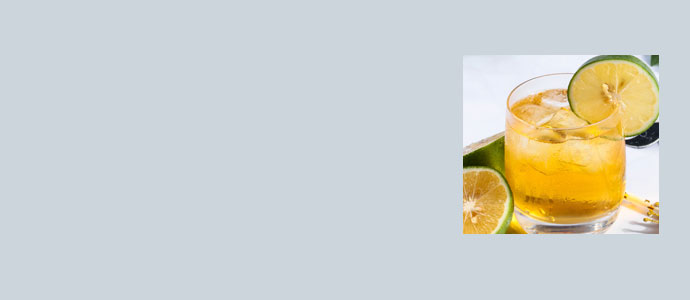
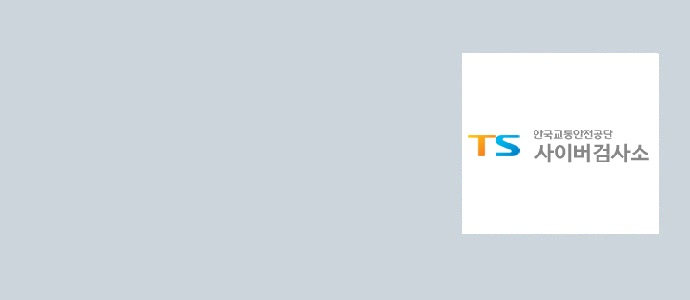
portfolio

Changed region(s): [[0.6696, 0.15, 0.9739, 0.78]]

diff --git a/index.html b/index.html
@@ -2,164 +2,125 @@
 <html lang="ko">
 <head>
     <meta charset="UTF-8">
-    <title>한국소비자원시대-강의진행용</title>
-    <link rel="stylesheet" href="css/style.css">
-    
+    <title>SeongDo's Portfolio</title>
+    <link rel="stylesheet" href="csss2/style.css">
 </head>
+
 <body>
-  <div class="wrap">
-      <header>
-          <div class="innerHeader" id="main">
-              <nav class="util">
-                  <ul>
-                      <li><a href="#"><img src="img/util_01.gif" alt="home"></a></li>
-                      <li><a href="#"><img src="img/util_04.gif" alt="home"></a></li>
-                      <li><a href="#"><img src="img/util_03.gif" alt="home"></a></li>
-                      <li><a href="#"><img src="img/util_02.gif" alt="home"></a></li>
-                  </ul>
-              </nav>
-              <h1 class="logo"><a href="index.html"><img src="img/logo.png" alt="로고"></a></h1>  
-          </div>
-          <div class="related">
-              <a href="#"><p>지난호 보기</p></a>
-              <a href="#"><p>구독 신청</p></a>
-          </div>
-      </header> 
-   <!-- section.main  -->
-    <section class="main">
-        <div class="inner">
-            <div class="mainTitle">
-                <h2>아이들과 외국에서 한달 살기 <br>용기를 내요.</h2>
-                <p>아이들과 외국에서 한달 사기는 꿈같은 일이면서도 두려운 일입니다. <br>
-                  아이들 학교나 학원, 혹은 경비때문에 여행을 망설이는 분들이 많으실텐데요. <br>그분들에게 말씀드리고 싶어요. 주저하지 말고 용기를 내라고...</p>
-                <a href="#" class="btn">자세히 보기</a>
+    <div class="wrap">
+        <header>
+            <div class="innerHeader" id="main">
+                <nav class="util">
+                    <ul>
+                        <li><a href="index.html"><img src="img/home2.jpg" alt="home"></a></li>
+                        <li><a href="https://blog.naver.com/star1582" target="_blank"><img src="img/b2.jpg" alt="home"></a></li>
+                        <li><a href="https://github.com/ZayneLee" target="_blank"><img src="img/github2.png" alt="home"></a></li>
+                    </ul>
+                </nav>
+                <h1 class="logo">
+                    <p>SeongDo's Portfolio</p>
+                </h1>
             </div>
-        </div>
-        <div class="may">
-            <a href="#">
-                <strong>May</strong>
-                <p>이달의  <br> 추천 정보</p>
-            </a>
-            <ul>
-                <li><a href="#">KOREA</a></li>
-                <li><a href="#">CONSUMER AGENCY</a></li>
-                <li><a href="#">WEBZINE</a></li>
-            </ul>
-            <h3>2020.03</h3>
-        </div>    
-    </section>
-    <!-- section.happy  --> 
-   <section class="happy">
-       <h2>함께 <span class="colortext">행복한</span> 소비생활</h2>
-       <ul>
-           <li>
-               <a href="#">
-                   <p>같이, 가치있게</p>
-                   <h3>봄날의 신부 소박함에 빠지다.</h3>
-                   <p class="img"><img src="img/main_5month_05.jpg" alt="img5"></p>
-               </a>
-           </li>
-           <li>
-               <a href="#">
-                   <p>나만의 소비철학</p>
-                   <h3>생활자인 듯, 여행자인 듯</h3>
-                   <p class="img"><img src="img/main_5month_07.jpg" alt="img5"></p>
-               </a>
-           </li>
-           <li>
-               <a href="#">
-                   <p>재미있는 소비심리의 비밀</p>
-                   <h3>우리에게 가장 매력적인 말, 꽁짜</h3>
-                   <p class="img"><img src="img/main_5month_09.jpg" alt="img5"></p>
-               </a>
-           </li>
-       </ul>
-   </section> 
-  <!-- section.smart   -->
-       <section class="smart">
-           <div class="inner">
-               <h2>함께 <span class="colortext2">똑똑한</span> 소비생활</h2>
-               <ul>
-                   <li>
-                       <a href="#"><p class="img"><img src="img/main_5month_15.jpg" alt="설탕캔디"></p>
-                       <h3>어린이 비타민캔디,  <br> 설마 설탕캔디?</h3>
-                       </a>
-                   </li>
-                   <li>
-                       <a href="#"><p class="img"><img src="img/main_5month_18.jpg" alt="주식전체 케체크리스트"></p>
-                       <h3>퇴직을 앞둔 5060아빠,  <br> 주식투자 전 체크리스트</h3>
-                       </a>
-                   </li>
-               </ul>
-               <div class="row">
-                   <div class="guide">
-                      <p>거래 가이드</p>
-                       <a href="#">
-                           <p class="img"><img src="img/main_5month_19.jpg" alt="거래가이드"></p>
-                           <h3>온라인가구, <br>부디 신중하게</h3>
-                       </a>
-                   </div>
-                   <div class="guide">
-                      <p>안전 가이드</p>
-                       <a href="#">
-                           <p class="img"><img src="img/main_5month_20.jpg" alt="거래가이드"></p>
-                             <h3>노인요양시설, <br>전기화재 안전관리 취약</h3>
-                       </a>
-                   </div>
-               </div>
-           </div>
-       </section>
-      <!-- section.issue-->
-      <section class="news">
-          <div class="issue">
-              <h2>한국소비자원 이슈</h2>
-              <p><span class="num">1</span>'사회배려계층 권익 증진 행사'발대식 개최</p>
-              <p><span class="num">2</span>소비자교육 대학생 서포더트 발대식 개최</p>
-          </div>
-          <div class="issue">
-              <h2>소비자시대 퀴즈&리뷰 이벤트</h2>
-              <p>소비자시대 웹진에 대한 리뷰를 작성해주세요.</p>
-              <p>추첨을 통해 다양한 상품을 드립니다.</p>
+        </header>
+        <!-- section.main -->
+        <section class="main">
+            <div class="inner">
+                <div class="mainTitle">
+                    <p>안녕하세요?
+                        <br>개발자 이성도 입니다.
+                    </p>
+                </div>
+            </div>
+        </section>
+        <!-- section.aboutme -->
+        <section class="aboutme">
+            <p class="photo">
+                <img src="img/photo.jpg" alt="photo">
+            </p>
+            <h2>About Me</h2>
+            <div class="flexcontainer">
+                    <div class="flexitem">
+                            <h3>이름</h3>
+                            <p>이성도</p>
+                    </div>
+                    <div class="flexitem">
+                            <h3>생년월일</h3>
+                            <p>1990.04.25</p>
+                    </div>
+                    <div class="flexitem">
+                            <h3>주소</h3>
+                            <p>경북 구미시</p>
+                    </div>
+                    <div class="flexitem">
+                            <h3>연락처</h3>
+                            <p>010-7767-7475</p>
+                    </div>
+                    <div class="flexitem">
+                            <h3>이메일</h3>
+                            <p>star1582@naver.com</p>
+                    </div>
+                    <div class="flexitem">
+                            <h3>최종학력</h3>
+                            <p>한국방송통신대 컴퓨터과학과</p>
+                    </div>
+            </div>
+        </section>
+
+        <!-- section.skill -->
+        <section class="skill">
+            <div class="inner">
+                <h2>Skills</h2>
+                <div class="row">
+                    <div class="guide">
+                        <p>프론트 엔드</p>
+                        <a href="javascript:void(0);">
+                            <p class="img"><img src="img/htmlcssjs-overview.png" alt="프론트"></p>
+                            <h3>HTML5 + CSS3 + JS</h3>
+                        </a>
+                    </div>
+                    <div class="guide">
+                        <p>백엔드</p>
+                        <a href="javascript:void(0);">
+                            <p class="img"><img src="img/jsp.png" alt="백엔드"></p>
+                            <h3>JSP & Servlets</h3>
+                        </a>
+                    </div>
+                    <div class="guide">
+                        <p>협업</p>
+                        <a href="javascript:void(0);">
+                            <p class="img"><img src="img/git.png" alt="협업"></p>
+                            <h3>Git & GitHub</h3>
+                        </a>
+                    </div>
+                </div>
+            </div>
+        </section>
+        <!-- section.experience -->
+        <section class="news">
+             <h2>Experience</h2>
+          <div class="container">
+              <div class="issue">
+                  <h3>한국교통안전공단 사이버검사소</h3>
+                  <p>IT 사업관리 및 보안담당</p>
+                  <p>통계 화면 개발 참여</p>
+                  <p>Skills : 웹스퀘어5, Java, Jsp, Mybatis</p>
+                  <p>참여도 : 100%</p>
+              </div>
+              <div class="issue">
+                  <h3>SeongDo's Portfolio</h3>
+                  <p>Portfolio 화면 제작</p>
+                  <p>Skills : HTML5, CSS3, Photoshop, GitHub</p>
+                  <p>참여도 : 100%</p>
+              </div>
           </div>
       </section>
       <a href="#main" class="top"><p>Top</p> </a>
       <footer>
           <div class="adress">
              <p>
-                 (27738)충청북도 음성국 맹동면 용두로 54 충북혁신도시 한국소비자원 <br>전화 :043-880-5500  팩스 : 043-877-6767 소비자상담 : 1372(공정거래위원회 소비자 상담센터) <br>
-                    <span class="copy">COPYRIGHT ⓒ 2019 KOREA CONSUMER AGENCY.ALL TIGHTS RESEVED</span>
+                 <span class="copy">© 2021. SeongDo Lee. All rights reserved.</span>
              </p>
-             <p class="flogo"><a href="#"><img src="img/logo.png" alt="푸터로고"></a></p>
           </div>
       </footer>
-     
-              
-                    
-                          
-                                
-                                      
-                                            
-                                                  
-                                                        
-                                                              
-                                                                    
-                                                                          
-                                                                                
-                                                                                            
-         
-         
-         
-         
-         
-         
-         
-         
-         
-         
-         
-         
-          
-     
-  </div> 
-</body>
-</html>
+    </div>
+</body></html>

diff --git a/csss2/style.css b/csss2/style.css
@@ -18,13 +18,114 @@ line-height: 90px; margin-left: 2%;}
 
 /* section.main*/
 .main {width: 100%; heigh: auto; background-image: url(../img/Code.jpg); background-size: cover; background-position: center; background-repeat: no-repeat; }
-.main .inner {width: 1400px; height: 800px; margin: 0 auto; position: relative; font-size: 50px; color: white;}
+.main .inner {width: 100%; height: 800px; margin: 0 auto; position: relative; font-size: 50px; color: white;}
 .main .inner .mainTitle {width: 653px; height: auto; position: absolute; top: 50%; text-align: center; line-height: 1.3;}
+.main .inner .mainTitle p {animation-name: titani;  animation-duration: 1.2s;}
+@keyframes titani {
+    0%{opacity: 0;  top: 70%;}
+    30%{opacity: 0; top: 70%;}
+    100%{opacity: 1; top:63%;}
+}
 
 /* section.aboutme */
-.aboutme {width: 1400px; margin: 0 auto; margin-top: 100px; color: #333;}
+.aboutme {width: 100%; margin: 0 auto; margin-top: 50px; color: #333; margin-bottom: 50px;}
 .aboutme .photo {text-align: center;}
 .aboutme h2 {text-align: center; font-size: 40px; font-weight: bold; margin-bottom: 50px;}
-.aboutme ul {width: 100%; height: auto; margin: 0 auto;  overflow: hidden;}
-.aboutme ul li {float: left; width: 32.2%; margin-right: 1.7%; margin-bottom: 10px; text-align: center;}
-.aboutme ul li:nth-child(3) {margin-right: 0;}
+
+		.flexcontainer {
+            width: 100%;
+			display: flex;
+			flex-direction: row;
+            text-align: center;
+            flex-wrap: wrap;
+            
+		}
+		.flexitem {
+            width: 30%;
+			flex: 2 auto;
+		}
+
+		@media (max-width: 520px) {
+			.flexcontainer {
+				flex-direction: column;
+				flex-wrap: wrap;
+			}
+			.flexitem {
+				width: 100%;
+				/* flex-grow: 0; */
+				/* flex: 0 auto; */
+				/* flex-basis: 50%; */
+			}
+		}
+
+/* section.skill */
+.skill {width: 100%; height: auto; background-image: url(../img/section.jpg); background-repeat: no-repeat; background-size: cover; background-position: center; padding: 50px 0;}
+.skill .inner {width: 100%; height: auto; margin: 0 auto;  text-align: center; }
+.skill .inner h2 {font-size: 40px; margin-bottom: 60px;}
+.skill .row { width: 100%;	display: flex;	flex-direction: row;  text-align: center;}
+.skill .row .guide {flex: 1 auto; background: #fff; box-sizing: border-box;}
+.skill .row .guide:nth-child(2) {margin-right: 1px;}
+.skill .row .guide > p {width: 30%; margin-top: 30px;font-size: 19px; font-weight: bold; margin: 20px auto; border-top: 1px solid #000; border-bottom: 1px solid #000; padding: 10px;}
+.skill .row .guide p.img {display: inline-block; width: 200px; height: 200px; border-radius: 50%; overflow: hidden;margin-bottom: 30px;}
+.skill .row .guide p.img img{ width: 100%; transition: all 0.5s;}
+.skill .row .guide a:hover p.img img {transform: scale(1.2); transition: all 1s;}
+.skill .row .guide:first-child {border-right: 1px solid #ddd;}
+.skill .row .guide h3{margin-bottom: 30px;}
+
+		@media (min-width: 300px) {
+			.row {
+				flex-direction: column;
+				flex-wrap: wrap;
+			}
+			.guide {
+				width: 100%;
+				/* flex: 0 auto; */
+				/* flex-basis: 50%; */
+			}
+		}
+		@media (min-width: 900px) {
+			.row {
+				flex-direction: row;
+				flex-wrap: wrap;
+			}
+			.guide {
+				width: 30%;
+				/* flex: 0 auto; */
+				/* flex-basis: 50%; */
+			}
+		}
+		
+
+/* section.experience */
+.news {width: 100%; height: auto; margin: 0 auto; overflow: hidden;}
+.news h2{font-size: 40px; margin-top: 60px; text-align: center;}
+.news .container{display: flex;	flex-direction: row; }
+.news .issue { margin-top: 50px; width: 49.25%; height: 280px; float: left; background-image: url(../img/img_08.jpg);background-repeat: no-repeat; background-size: cover; background-position: center; margin-right: 1.5%;}
+.news .issue:nth-child(2) {margin-right: 0;background-image: url(../img/img_09.jpg);}
+.news .issue h3{margin-top: 10%; margin-left: 10%; }
+.news .issue p {font-size: 15px; color: #333; margin-top: 5px; margin-left: 10%;}
+
+.top {float: right; margin-right: 30px; margin-bottom: 30px; width: 80px; height: 80px; background: #454545; border-radius: 50%; background-image: url(../img/arrow.JPG); background-repeat: no-repeat; background-size: 25px; background-position: top; position: relative;}
+.top a{display: block; width:100%; height: 100%; }
+.top p{ font-size: 16px; font-weight: bold; color: #fff; position:absolute; top:50%; left: 50%; transform: translate(-50%, -50%);}
+        
+		@media (min-width: 300px) {
+			.news .container {
+				flex-direction: column;
+			}
+            .news .issue {
+                width: 100%;
+            }
+		}
+		@media (min-width: 900px) {
+			.news .container {
+				flex-direction: row;
+			}
+            .news .issue {
+                width: 49%;
+            }
+		}
+
+/* section.footer */
+footer {width: 100%; height: auto; background: #454545; color: #adadad; overflow: hidden;}
+footer .adress{width: 100%; margin: 0 auto; text-align: center;}
